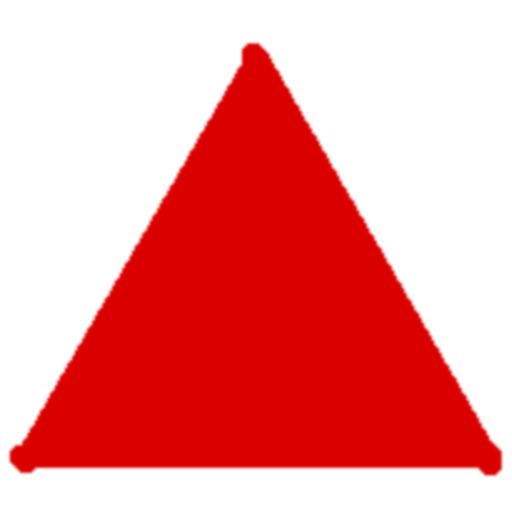
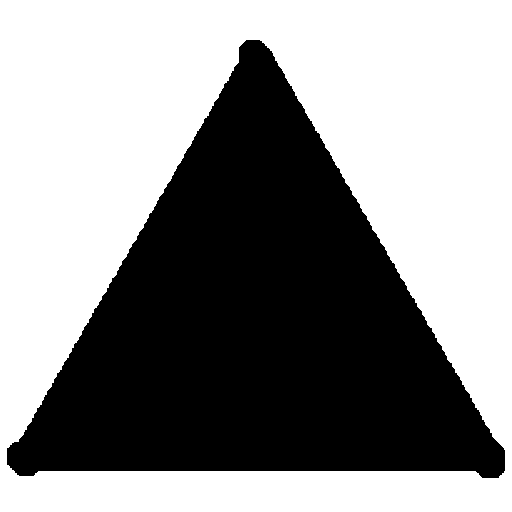
Started adding team color

diff --git a/Strategy/SUnit.cpp b/Strategy/SUnit.cpp
@@ -5,13 +5,23 @@
 #include <algorithm>
 #include <iostream>
 
-SUnit::SUnit() {}
+SUnit::SUnit()
+{
+}
 
-SUnit::SUnit(std::string p_unitId) { m_unitId = p_unitId; }
+SUnit::SUnit(std::string p_unitId)
+{
+  m_unitId = p_unitId;
+}
 
-SUnit::SUnit(const SUnit &other) { copyStats(other); }
+///*
+SUnit::SUnit(const SUnit& other)
+{
+  copyStats(other);
+}
 
-void SUnit::copyStats(const SUnit &other) {
+void SUnit::copyStats(const SUnit& other)
+{
   m_unitId = other.m_unitId;
   m_maxHP = other.m_maxHP;
   m_damage = other.m_damage;
@@ -21,107 +31,75 @@ void SUnit::copyStats(const SUnit &other) {
   m_resourceCost = other.m_resourceCost;
 
   m_sprite = other.m_sprite;
+  m_teamColorSprite = other.m_teamColorSprite;
 
   m_currentHP = m_maxHP;
   m_currentMoves = m_maxMoves;
 }
 
-SUnit::~SUnit() {}
+SUnit::~SUnit()
+{
+}
 
-SUnit &SUnit::operator=(const SUnit &other) {
+SUnit& SUnit::operator=(const SUnit& other)
+{
   copyStats(other);
   return *this;
 }
 
-// bool SUnit::isDead() { return m_currentHP <= 0; }
+//*/
 
-int SUnit::removeMoves(int numMoves) {
-  if (m_currentMoves <= 0) {
+int SUnit::removeMoves(int numMoves)
+{
+  if (m_currentMoves <= 0)
+  {
     return 0;
   }
   m_currentMoves -= numMoves;
   return numMoves;
 }
 
-// int SUnit::applyDamage(int amount) {
-//  int dHP = std::max(amount, m_currentHP);
-//  m_currentHP -= amount;
-//  return dHP;
-//}
+std::shared_ptr<SSprite> SUnit::getSprite()
+{
+  return m_sprite;
+}
 
-// int SUnit::dealDamage(float chance) {
-//  if (chance > m_accuracy) {
-//    return 0;
-//  } else {
-//    return m_damage;
-//  }
-//}
-
-std::shared_ptr<SSprite> SUnit::getSprite() { return m_sprite; }
-
-void SUnit::setSprite(std::shared_ptr<SSprite> newSprite) {
+void SUnit::setSprite(std::shared_ptr<SSprite> newSprite)
+{
   m_sprite = newSprite;
 }
 
-void SUnit::setOwner(int ownerId) { m_owningPlayerId = ownerId; }
-
-int SUnit::getOwner() { return m_owningPlayerId; }
-
-// void SUnit::setParams(std::unordered_map<std::string, float> params) {
-//  auto it = params.find("maxHP");
-//  if (it != params.end()) {
-//    m_maxHP = int(it->second);
-//  }
-//  it = params.find("damage");
-//  if (it != params.end()) {
-//    m_damage = int(it->second);
-//  }
-//  it = params.find("accuracy");
-//  if (it != params.end()) {
-//    m_accuracy = it->second;
-//  }
-//  it = params.find("maxMoves");
-//  if (it != params.end()) {
-//    m_maxMoves = int(it->second);
-//  }
-//  it = params.find("buildTime");
-//  if (it != params.end()) {
-//    m_buildTime = int(it->second);
-//  }
-//  it = params.find("resourceCost");
-//  if (it != params.end()) {
-//    m_resourceCost = int(it->second);
-//  }
-//}
-
-int SUnit::getCurrentHealth() { return m_currentHP; }
-
-// void SUnit::setTargetTile(std::shared_ptr<SNode> newTargetTile) {
-//  m_targetTile = newTargetTile;
-//}
-
-// void SUnit::resetTargetTile() { m_targetTile = nullptr; }
-
-// void SUnit::setCurrentTile(std::shared_ptr<SNode> newCurrentTile) {
-//  m_currentTile = newCurrentTile;
-//}
-
-// std::shared_ptr<SNode> SUnit::getTargetTile() { return m_targetTile; }
-
-// std::shared_ptr<SNode> SUnit::getCurrentTile() { return m_currentTile; }
-
-// void SUnit::moveTile(std::shared_ptr<SNode> tile) {
-//  m_currentMoves -= tile->getMovementCost();
-//  m_currentTile = tile;
-//}
-
-bool SUnit::canAdvanceRoute() {
-  return m_currentMoves > 0 and m_currentTile != m_targetTile and
-         m_targetTile != nullptr;
+std::shared_ptr<SSprite> SUnit::getTeamColorSprite()
+{
+  return m_teamColorSprite;
 }
 
-bool SUnit::bCanMove() { return m_currentMoves > 0; }
+void SUnit::setTeamColorSprite(std::shared_ptr<SSprite> newTeamColorSprite)
+{
+  m_teamColorSprite = newTeamColorSprite;
+}
 
-// bool SUnit::finishedRoute() { return m_currentTile == m_targetTile; }
+void SUnit::setOwner(int ownerId)
+{
+  m_owningPlayerId = ownerId;
+}
 
-void SUnit::refresh() { m_currentMoves = m_maxMoves; }
+int SUnit::getOwner()
+{
+  return m_owningPlayerId;
+}
+
+int SUnit::getCurrentHealth()
+{
+  return m_currentHP;
+}
+
+bool SUnit::bCanMove()
+{
+  return m_currentMoves > 0;
+}
+
+void SUnit::refresh()
+{
+  m_currentMoves = m_maxMoves;
+}

diff --git a/Strategy/SUnit.hpp b/Strategy/SUnit.hpp
@@ -8,36 +8,27 @@
 class SNode;
 struct SSprite;
 
-class SUnit {
-public:
+class SUnit
+{
+  public:
   SUnit();
   SUnit(std::string p_unitId);
-  SUnit(const SUnit &other);
+  SUnit(const SUnit& other);
   virtual ~SUnit();
 
-  SUnit &operator=(const SUnit &other);
+  SUnit& operator=(const SUnit& other);
 
   int removeMoves(int numMoves);
-  //  virtual bool isDead();
-  //  virtual int applyDamage(int amount);
-  //  virtual int dealDamage(float chance);
 
   std::shared_ptr<SSprite> getSprite();
+  std::shared_ptr<SSprite> getTeamColorSprite();
   void setSprite(std::shared_ptr<SSprite> newSprite);
+  void setTeamColorSprite(std::shared_ptr<SSprite> newTeamColorSprite);
   void setOwner(int ownerId);
   int getOwner();
 
-  //  void setParams(std::unordered_map<std::string, float> params);
   int getCurrentHealth();
-  //  void setTargetTile(std::shared_ptr<SNode> newTargetTile);
-  //  void resetTargetTile();
-  //  void setCurrentTile(std::shared_ptr<SNode> newCurrentTile);
-  //  std::shared_ptr<SNode> getTargetTile();
-  //  std::shared_ptr<SNode> getCurrentTile();
-  //  void moveTile(std::shared_ptr<SNode> tile);
-  bool canAdvanceRoute();
   bool bCanMove();
-  //  bool finishedRoute();
   void refresh();
 
   std::string m_unitId;
@@ -48,16 +39,14 @@ public:
   int m_buildTime;
   int m_resourceCost;
 
-protected:
+  protected:
   std::shared_ptr<SSprite> m_sprite;
+  std::shared_ptr<SSprite> m_teamColorSprite;
 
-  void copyStats(const SUnit &other);
+  void copyStats(const SUnit& other);
 
-private:
+  private:
   int m_currentHP;
   int m_currentMoves;
   int m_owningPlayerId;
-
-  std::shared_ptr<SNode> m_currentTile;
-  std::shared_ptr<SNode> m_targetTile;
 };

diff --git a/Strategy/SGameManager.hpp b/Strategy/SGameManager.hpp
@@ -103,6 +103,14 @@ class SGameManager
   //  SPlayer defaultPlayer;
   int m_numPlayers = 2;
   std::vector<std::shared_ptr<SPlayer>> m_players;
+  const std::array<SDL_Color, 6> m_playerColors = {
+    SDL_Color{ 0xFF, 0x00, 0x00, 0x00 },
+    SDL_Color{ 0xFF, 0x00, 0xFF, 0x00 },
+    SDL_Color{ 0xFF, 0xFF, 0x00, 0x00 },
+    SDL_Color{ 0x00, 0x00, 0xFF, 0x00 },
+    SDL_Color{ 0x00, 0xFF, 0x00, 0x00 },
+    SDL_Color{ 0x00, 0xFF, 0xFF, 0x00 }
+  };
   int m_currentPlayerId;
 
   SGameInput m_inputStruct;
